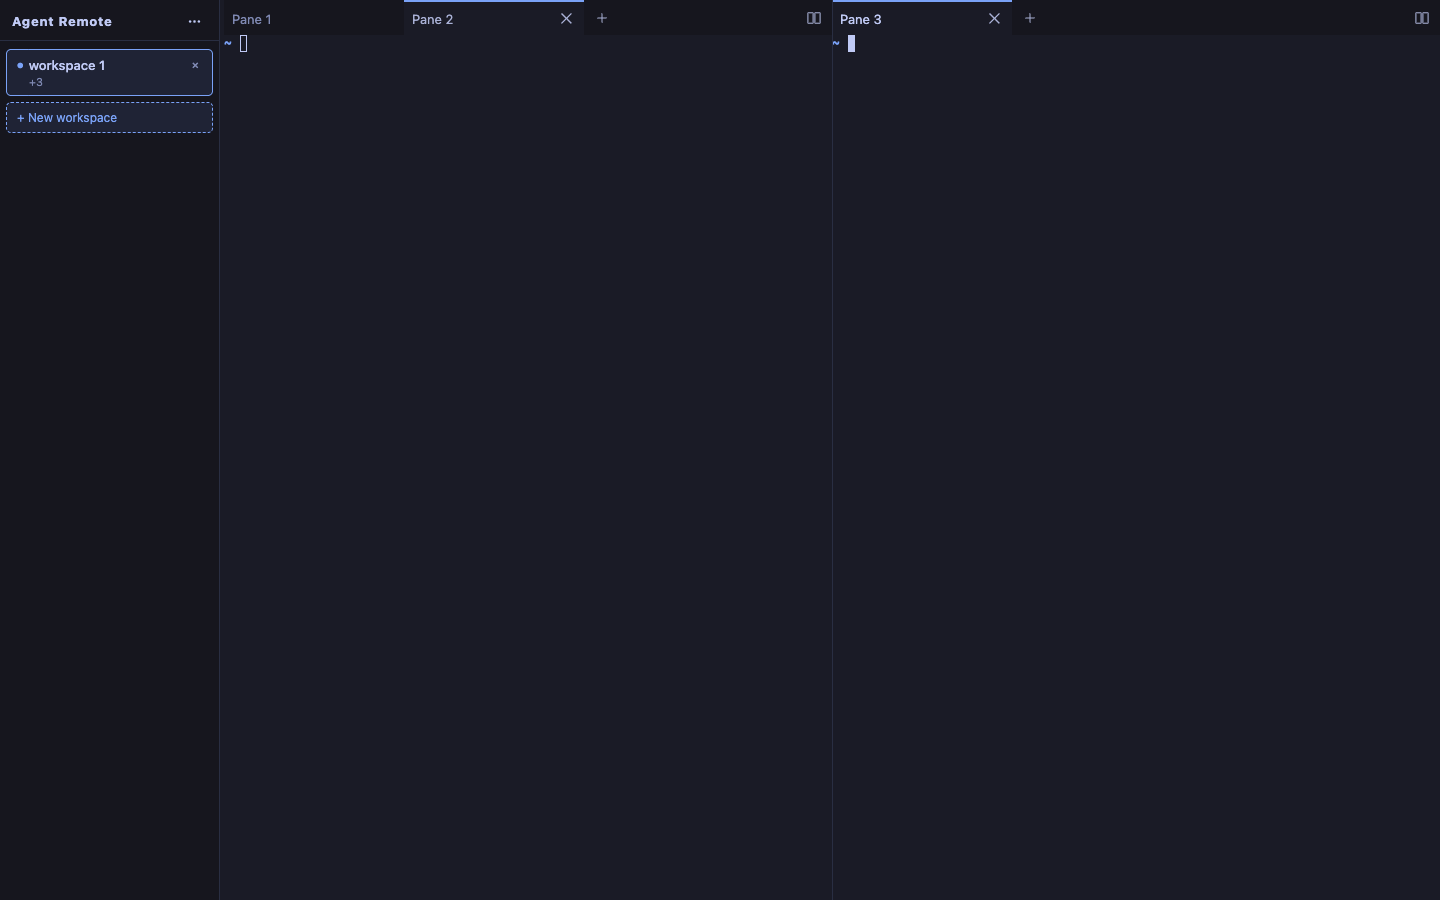
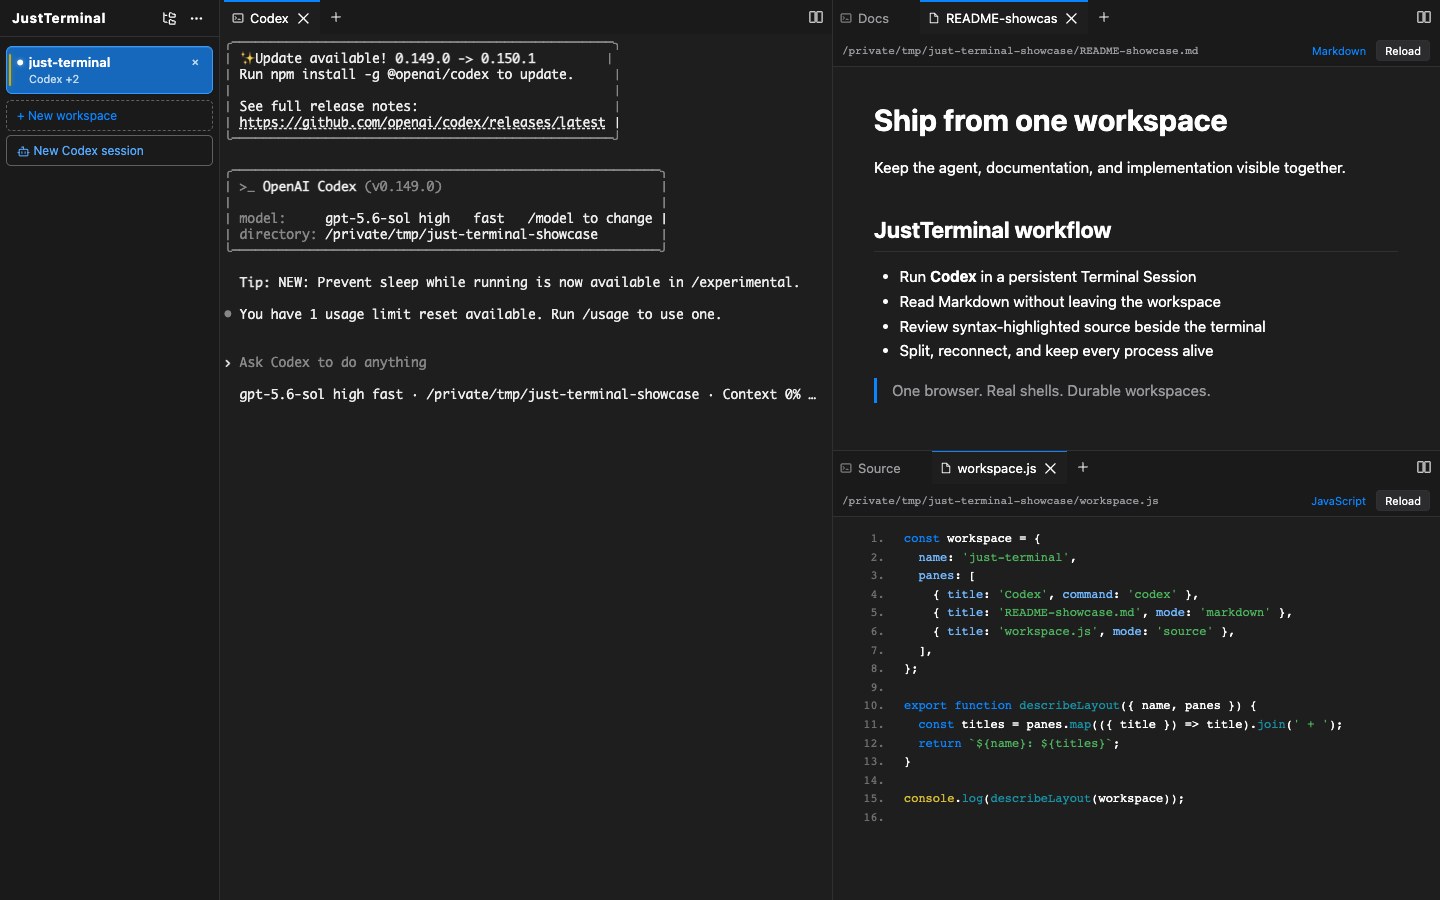
docs: refresh README workspace showcase

diff --git a/DESIGN.md b/DESIGN.md
@@ -116,15 +116,16 @@ second palette or persist ad-hoc colour overrides.
 ## Representative capture
 
 `docs/visual-reference/just-terminal-desktop-v1.png` is the committed Chromium reference at
-1440×900. It shows the sidebar, active and inactive tabs, split groups, terminal surfaces,
-pane divider, and desktop controls. Regenerate it only from a fresh runtime with:
+1440×900. It shows the sidebar and desktop controls around a `1 / (1 + 1)` layout: Codex in
+the full-height left Terminal Session, rendered Markdown above syntax-highlighted JavaScript
+on the right, and the split dividers and active/inactive tabs between them.
 
-```bash
-node web/e2e/fixed-appearance.mjs \
-  --url http://127.0.0.1:8313 \
-  --capture docs/visual-reference/just-terminal-desktop-v1.png
-```
+Regenerate it only from a fresh runtime, Workspace, and Panes in a real Chromium session.
+Use neutral `just-terminal` fixture paths, open the two files through JustTerminal's actual
+file viewers, and capture the 1440×900 viewport with `playwright-cli` after confirming Codex
+is ready and the browser console has no errors.
 
-The script switches between dark and light themes, checks live xterm and chrome updates, verifies
+`web/e2e/fixed-appearance.mjs` separately switches between dark and light themes, checks live
+xterm and chrome updates, verifies
 Host persistence across reload, rejects stale browser-local title-bar colour application, checks
 contrast, and rejects inherited product branding.

diff --git a/README.md b/README.md
@@ -4,7 +4,7 @@ Persistent terminal workspaces for your browser.
 
 JustTerminal runs shells and coding agents on a Host, while the UI runs in a browser or installed PWA. Organize work into named Workspaces, arrange terminal Panes as tabs or splits, disconnect, and return without tying a Terminal Session's lifetime to one browser tab.
 
-![JustTerminal desktop workspace](docs/visual-reference/just-terminal-desktop-v1.png)
+![JustTerminal workspace with Codex beside Markdown and JavaScript file viewers](docs/visual-reference/just-terminal-desktop-v1.png)
 
 > [!NOTE]
 > JustTerminal is under active development and does not have a tagged release yet. The Homebrew tap has not been published, and the install script has no release archive to fetch. For now, build from source.
